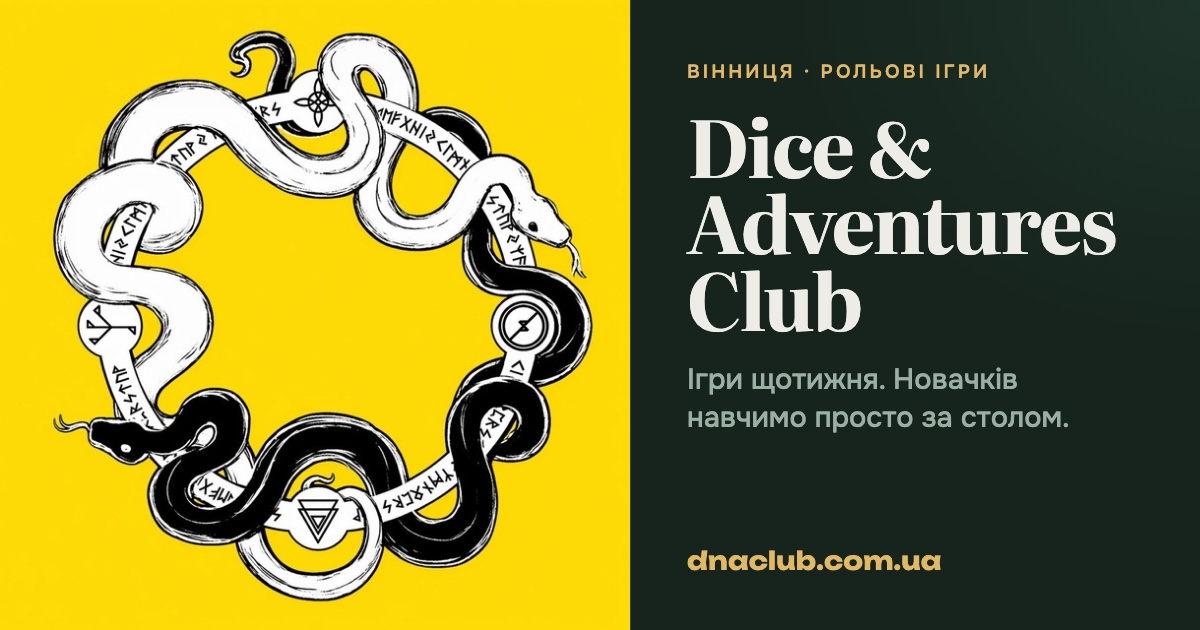
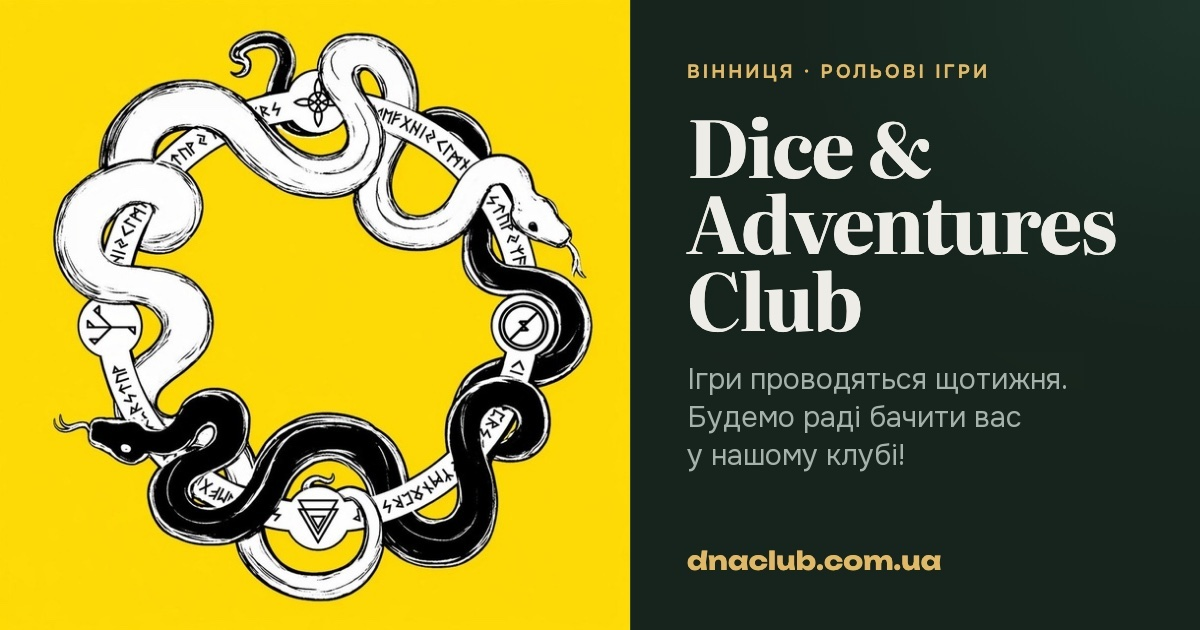
Link-preview image: new subtitle text
"Ігри щотижня. Новачків навчимо просто за столом." becomes "Ігри проводяться
щотижня. Будемо раді бачити вас у нашому клубі!". Edited in place (no source
file exists): old text erased over a fitted gradient background, new text set
in Onest Regular 29px at the old position and colour, saved with the original's
JPEG tables. The image URL gets ?v=2 because Telegram/Facebook cache previews
per URL.

Changed region(s): [[0.555, 0.573, 0.8942, 0.754]]

diff --git a/frontend/index.html b/frontend/index.html
@@ -44,13 +44,15 @@
     <meta property="og:url" content="https://dnaclub.com.ua/" />
     <!-- Link previews (Telegram, Facebook, Viber…) need an ABSOLUTE image URL, so this
          points at prod even on dev. 1200×630 is the size every platform expects. -->
-    <meta property="og:image" content="https://dnaclub.com.ua/og-image.jpg" />
+    <!-- ?v=N: Telegram/Facebook cache a link preview per image URL, so bump it whenever
+         og-image.jpg changes or new shares keep showing the old picture. -->
+    <meta property="og:image" content="https://dnaclub.com.ua/og-image.jpg?v=2" />
     <meta property="og:image:type" content="image/jpeg" />
     <meta property="og:image:width" content="1200" />
     <meta property="og:image:height" content="630" />
     <meta property="og:image:alt" content="Dice &amp; Adventures Club — настільні рольові ігри у Вінниці" />
     <meta name="twitter:card" content="summary_large_image" />
-    <meta name="twitter:image" content="https://dnaclub.com.ua/og-image.jpg" />
+    <meta name="twitter:image" content="https://dnaclub.com.ua/og-image.jpg?v=2" />
 
     <!-- Local-business structured data, for Google Maps / local search. Static and
          site-wide rather than per-page — the club itself, not any one page, is the
@@ -62,7 +64,7 @@
         "@type": "LocalBusiness",
         "name": "Dice & Adventures Club",
         "url": "https://dnaclub.com.ua/",
-        "image": "https://dnaclub.com.ua/og-image.jpg",
+        "image": "https://dnaclub.com.ua/og-image.jpg?v=2",
         "description": "Клуб настільних рольових ігор у Вінниці. D&D, Delta Green, Dragonbane та ще 21 система. 236 зіграних сесій, середня оцінка 8.9/10. Новачків навчимо за столом — приносити нічого не треба.",
         "address": {
           "@type": "PostalAddress",
